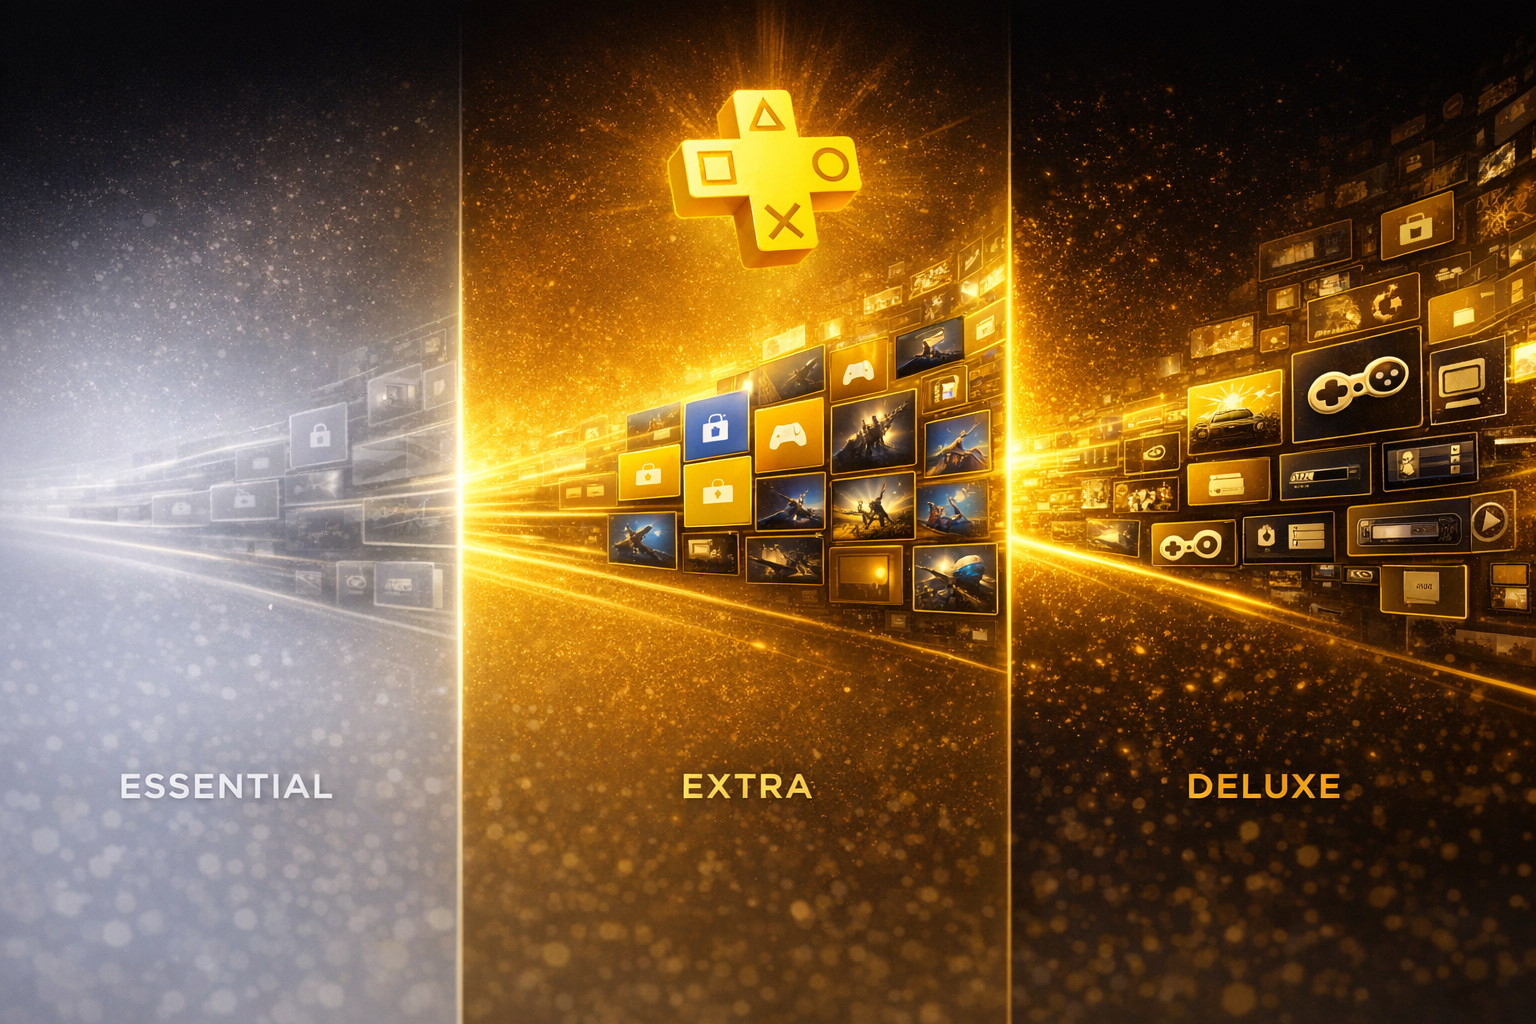
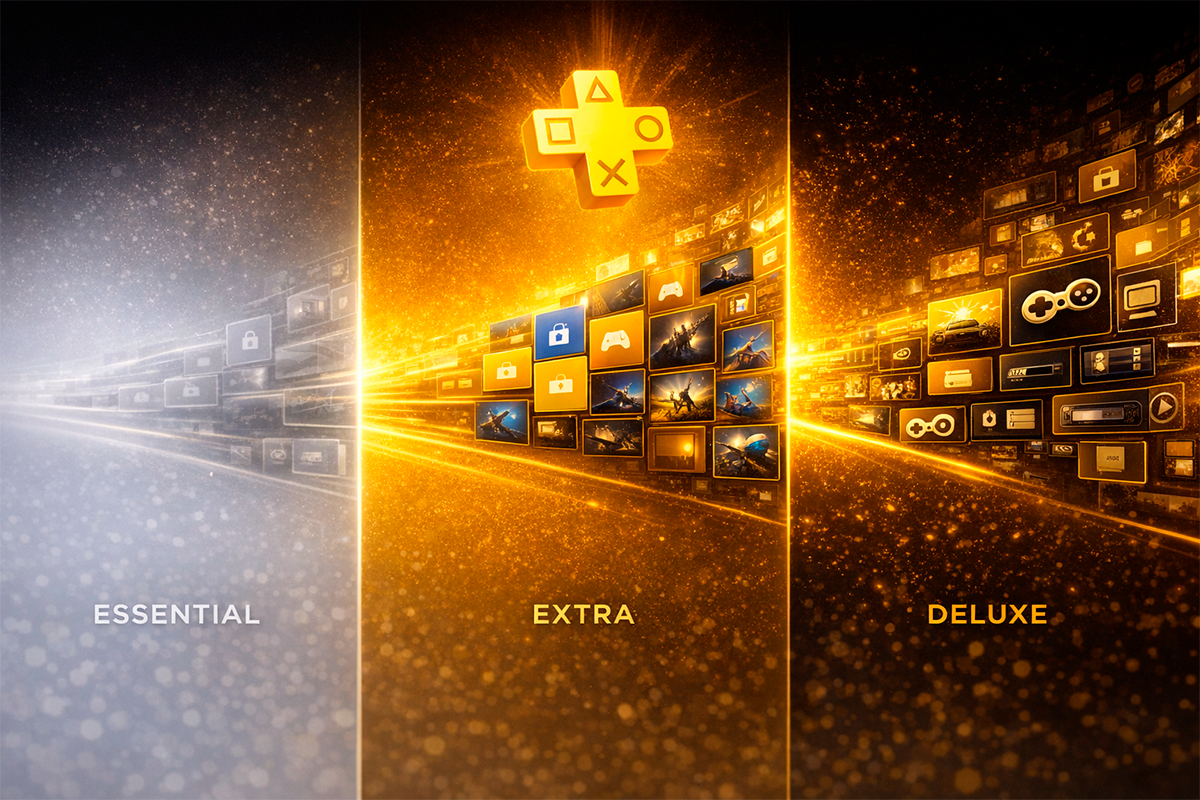
content: новые обложки 1200x800 для всех трёх гайдов

diff --git a/src/data/guides.ts b/src/data/guides.ts
@@ -153,7 +153,7 @@ export const guidesData: GuideItem[] = [
     slug: 'xbox-game-pass-kak-kupit-iz-rossii',
     title: 'Xbox Game Pass — все тарифы и покупка из России',
     excerpt: 'Как купить Xbox Game Pass из России в 2026 году. Тарифы Essential, Premium и Ultimate: что входит, цены, отличия. Конвертация, активация через подарочные карты.',
-    coverUrl: '/images/platforms/xbox-game-pass.png',
+    coverUrl: '/images/guides/xbox-game-pass.png',
     category: 'xbox',
     date: '2026-04-04',
     author: 'ActivePlay',
